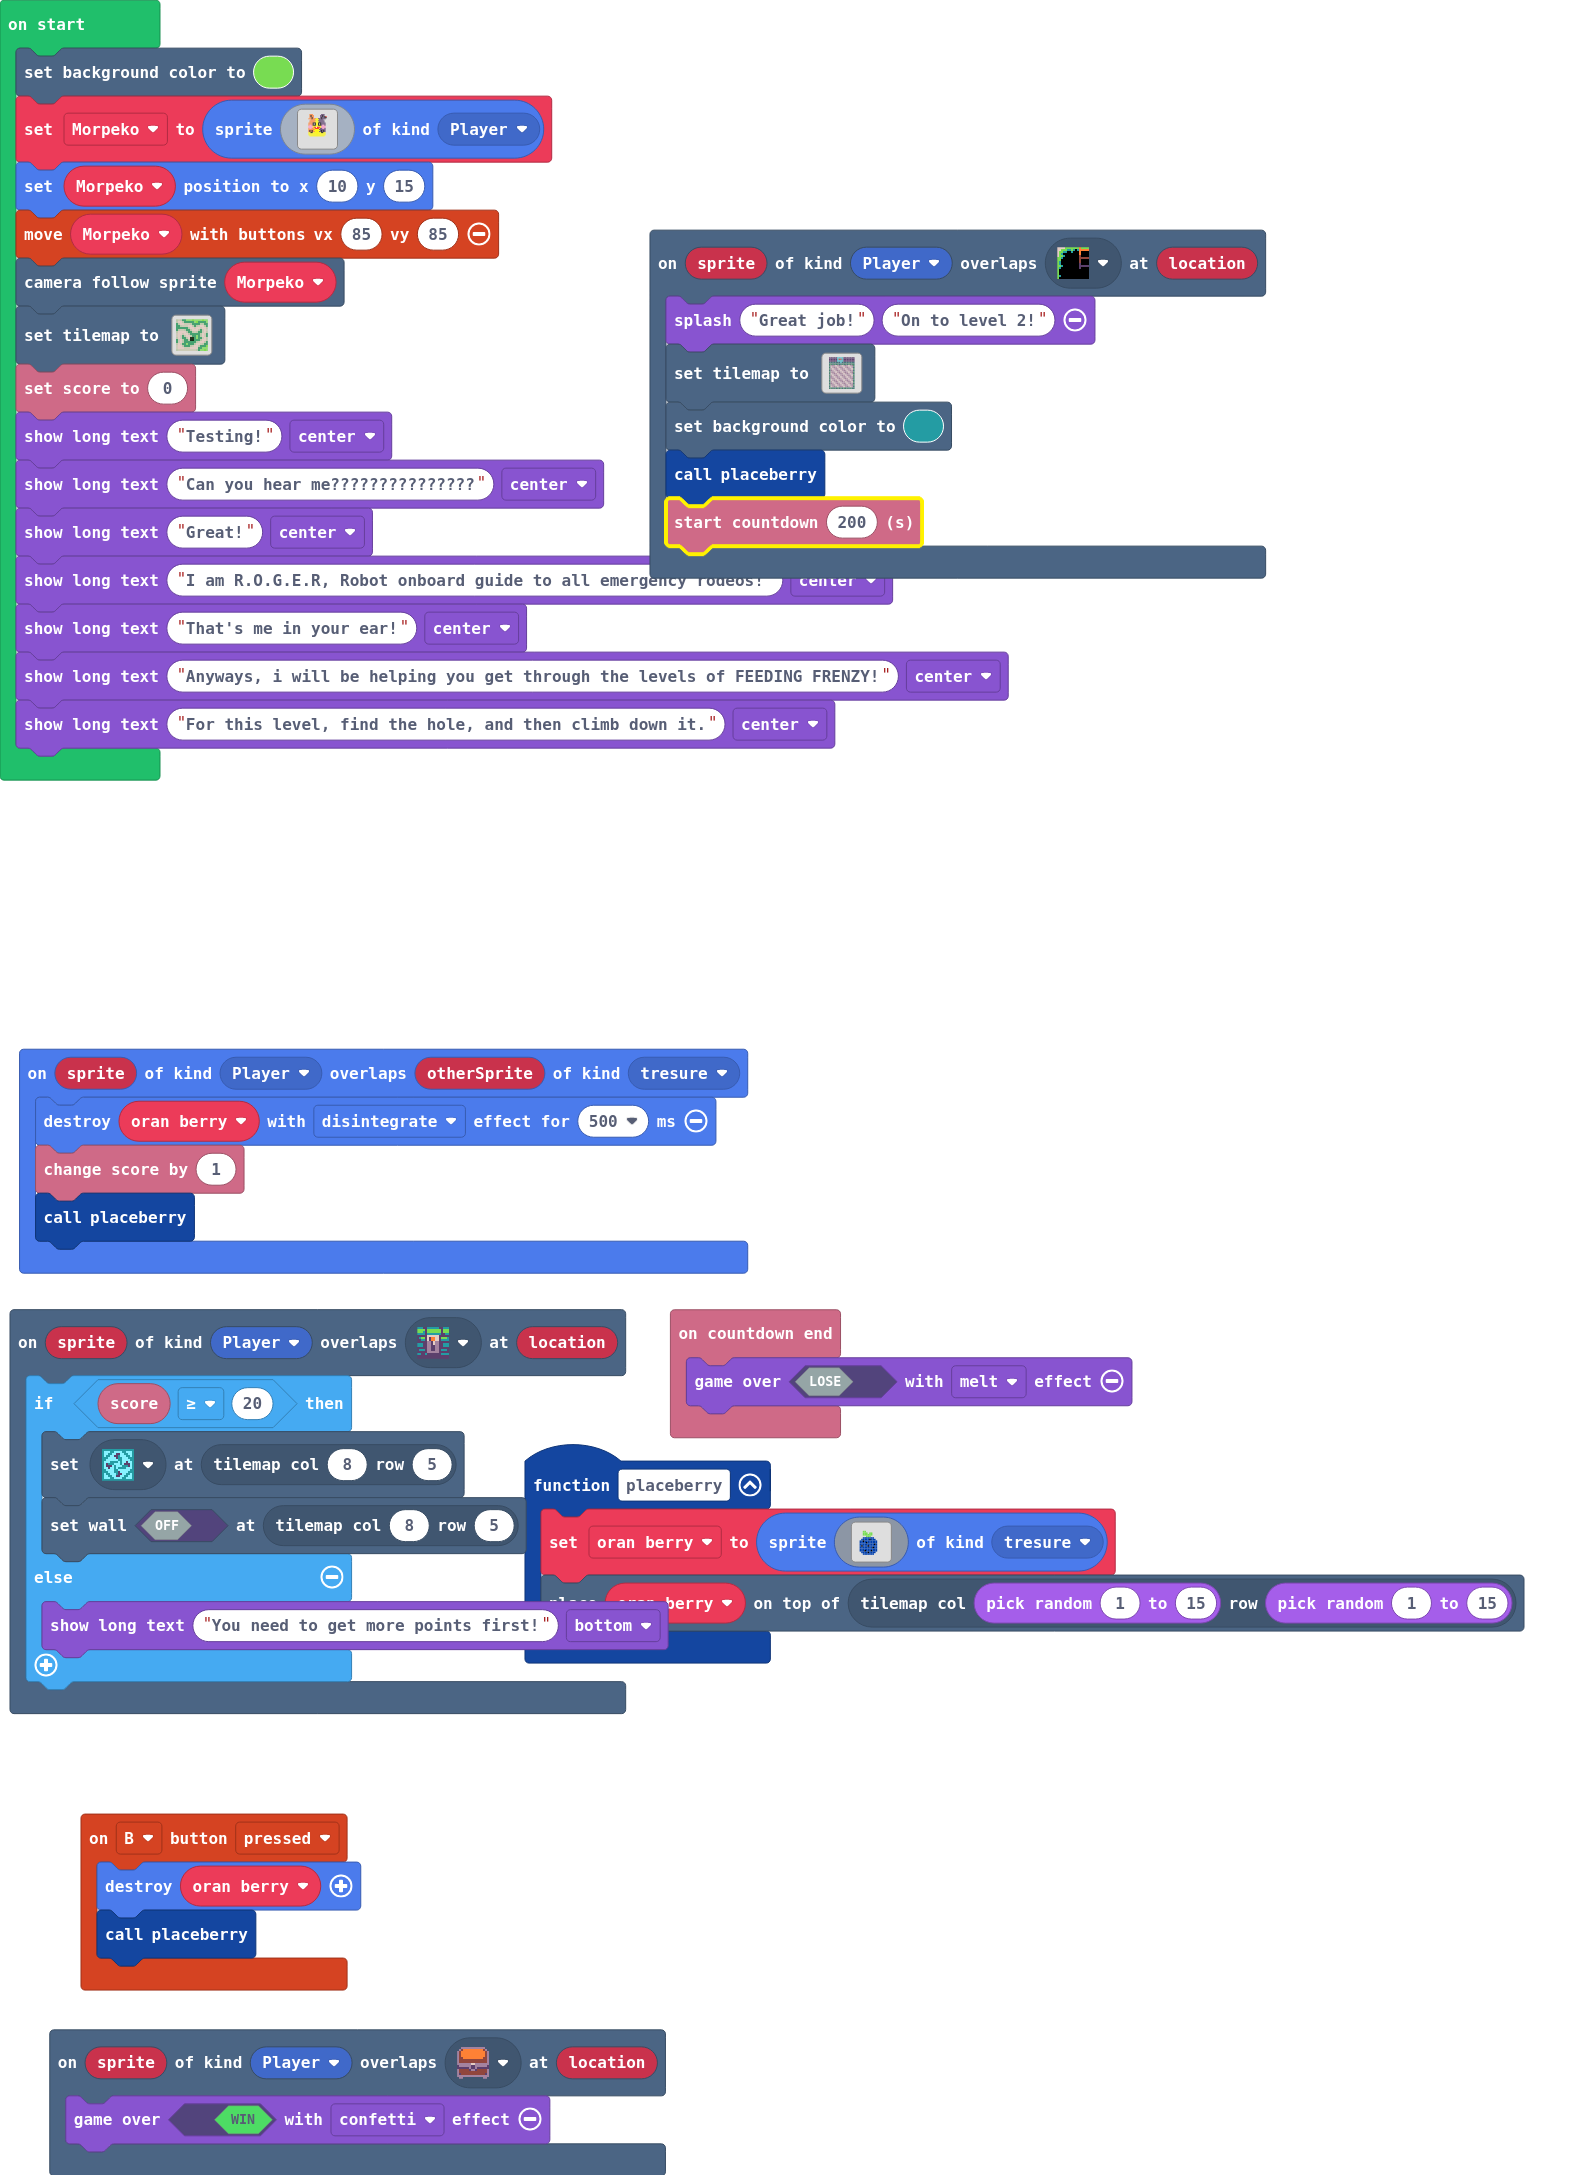
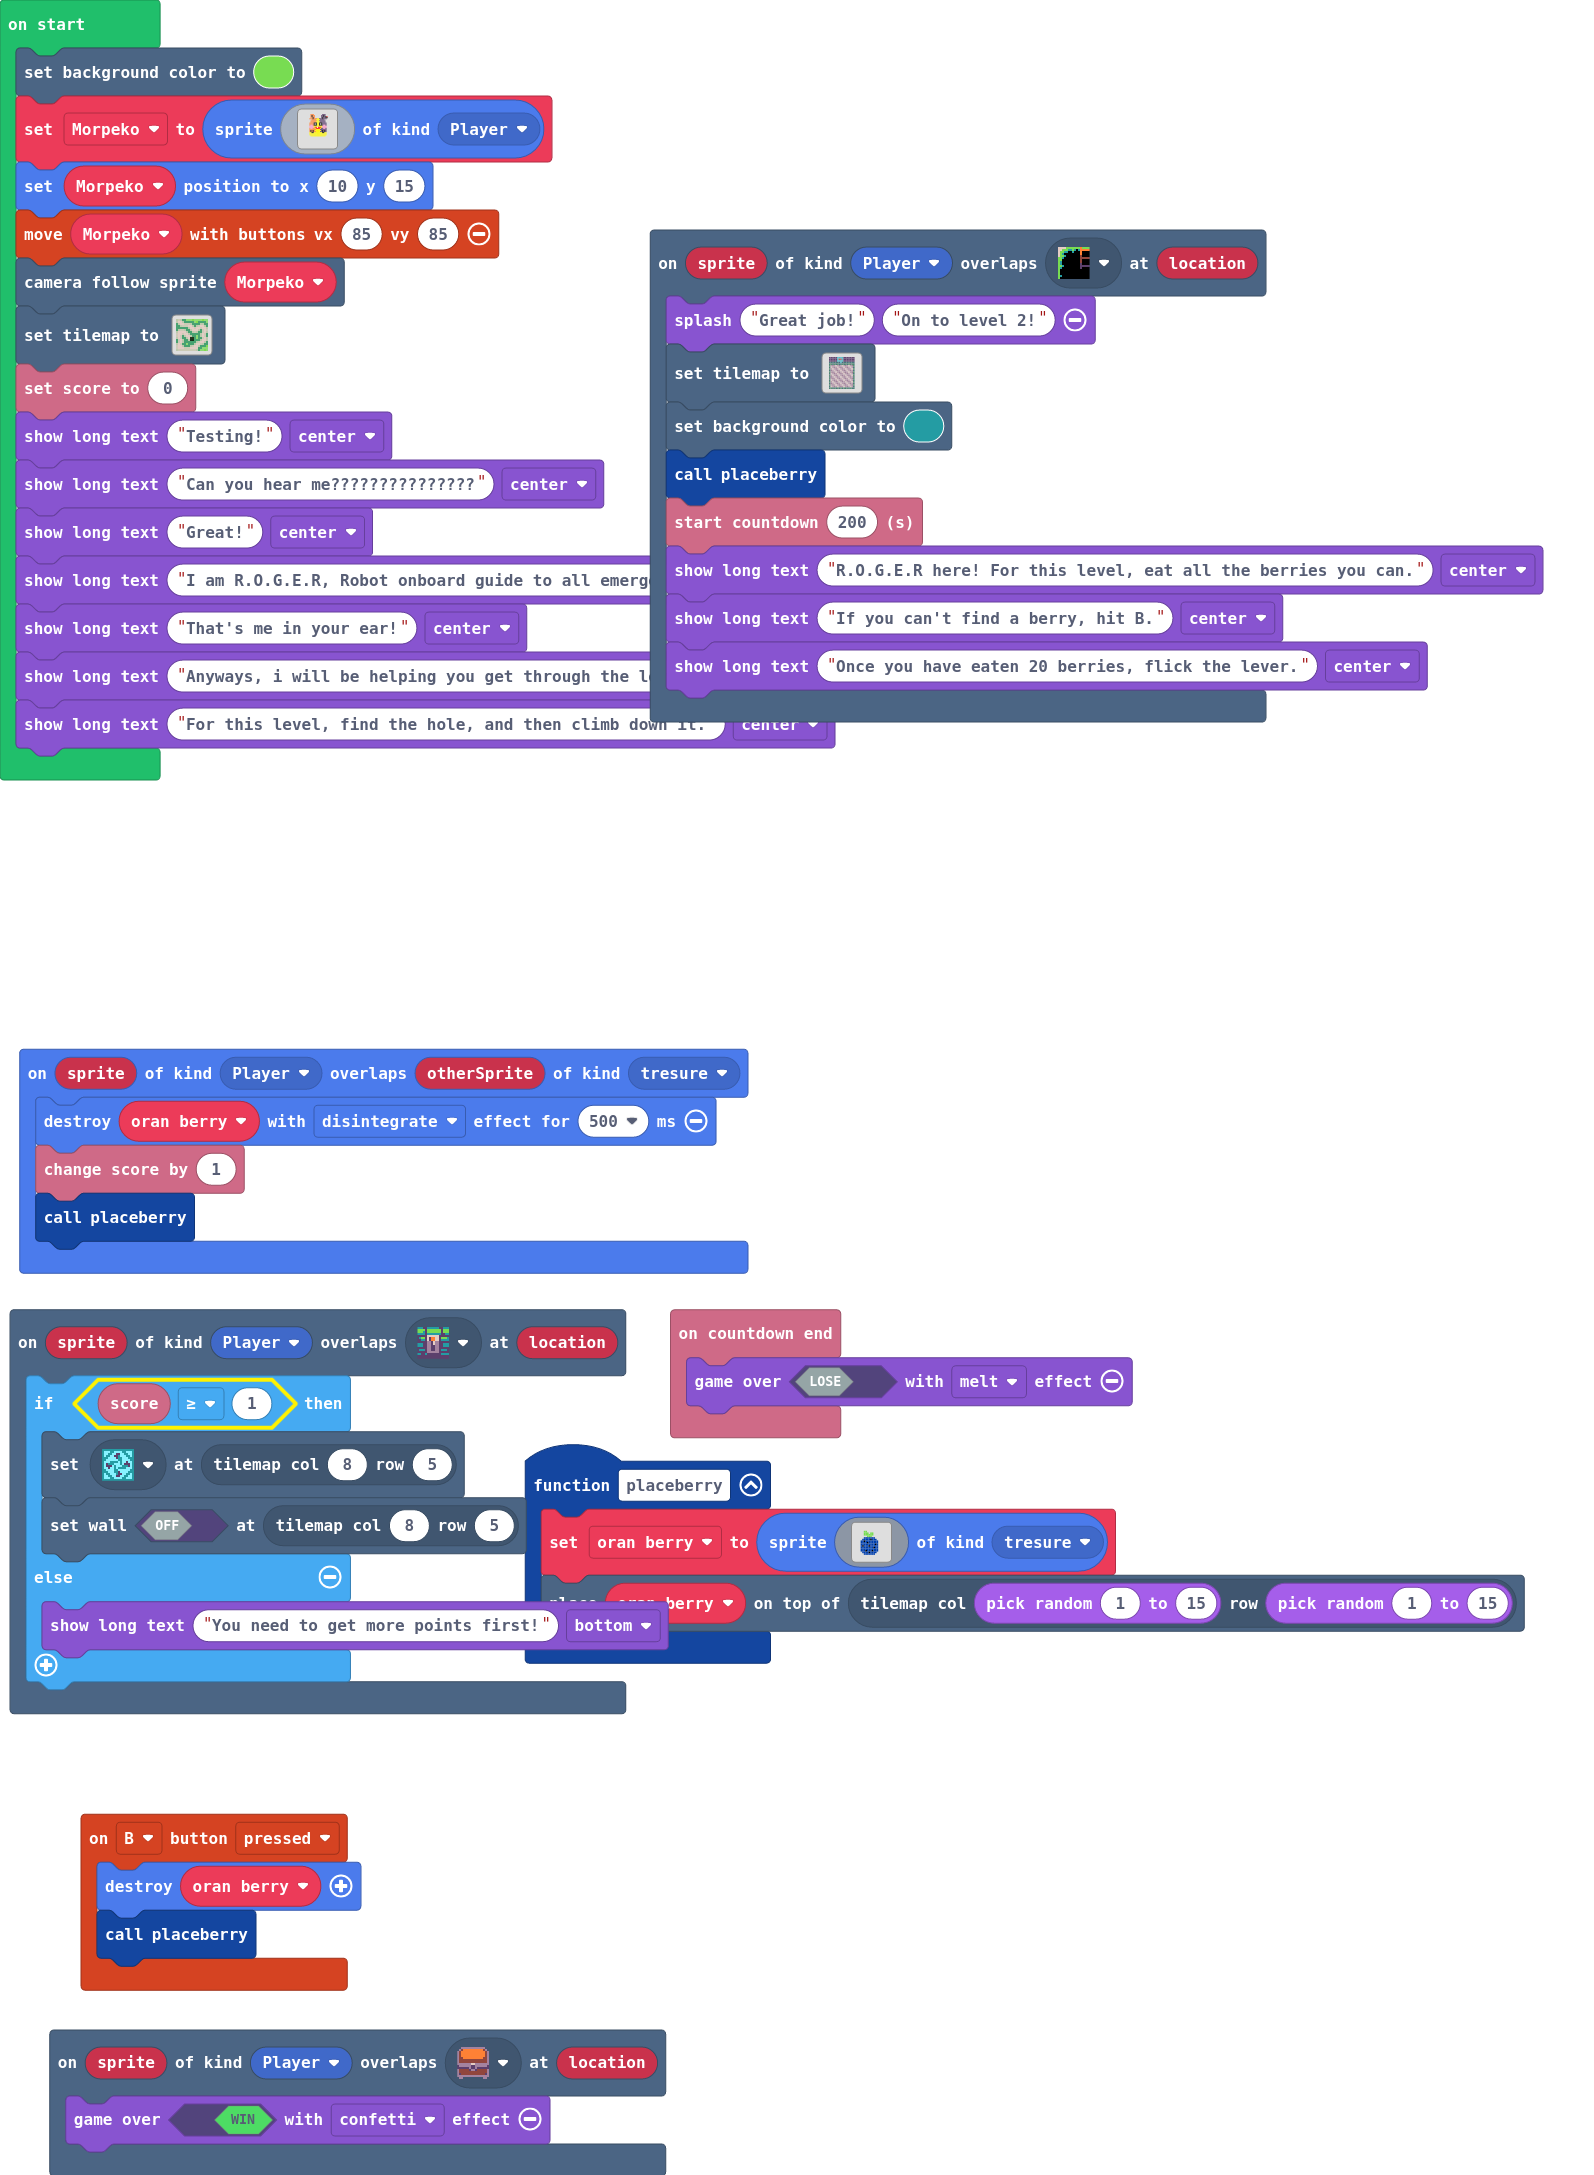
roger level 2

diff --git a/main.ts b/main.ts
@@ -7,13 +7,16 @@ scene.onOverlapTile(SpriteKind.Player, assets.tile`myTile0`, function (sprite, l
     scene.setBackgroundColor(6)
     placeberry()
     info.startCountdown(200)
+    game.showLongText("R.O.G.E.R here! For this level, eat all the berries you can.", DialogLayout.Center)
+    game.showLongText("If you can't find a berry, hit B.", DialogLayout.Center)
+    game.showLongText("Once you have eaten 20 berries, flick the lever.", DialogLayout.Center)
 })
 controller.B.onEvent(ControllerButtonEvent.Pressed, function () {
     oran_berry.destroy()
     placeberry()
 })
 scene.onOverlapTile(SpriteKind.Player, sprites.dungeon.greenSwitchUp, function (sprite, location) {
-    if (info.score() >= 20) {
+    if (info.score() >= 1) {
         tiles.setTileAt(tiles.getTileLocation(8, 5), sprites.dungeon.collectibleInsignia)
         tiles.setWallAt(tiles.getTileLocation(8, 5), false)
     } else {
